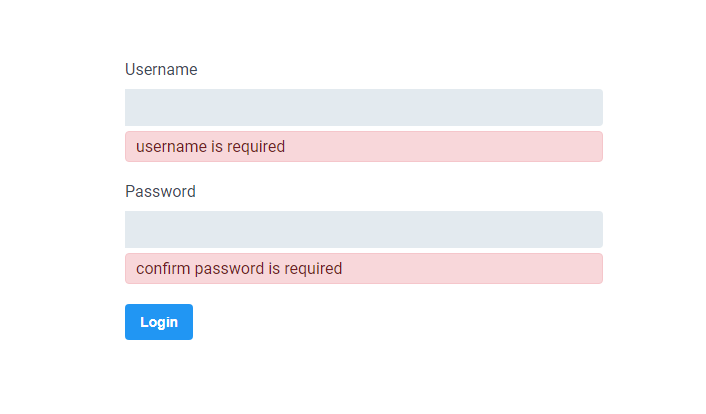
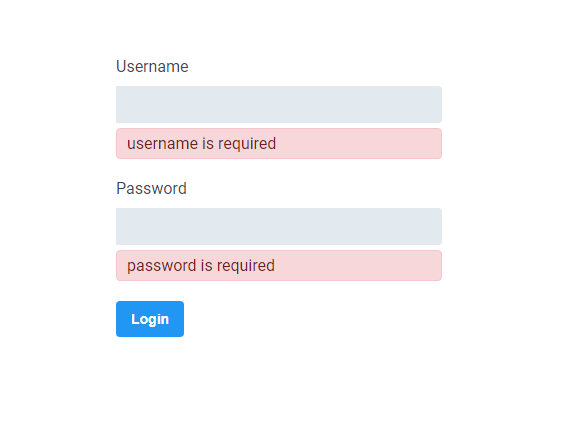
give a callback function default value

Changed region(s): [[0.1496, 0.4348, 0.868, 0.8406], [0.1496, 0.1449, 0.868, 0.4058]]

diff --git a/index.js b/index.js
@@ -1,4 +1,6 @@
 import Validation from "./js/validation.js";
+
+// ES6
 class Loggin extends Validation {
     constructor() {
         super();
@@ -9,17 +11,18 @@ class Loggin extends Validation {
         const rules = {
             ele: {
                 username: document.querySelector("input[name=username]"),
-                "confirm password": document.querySelector("input[name=password]"),
+                password: document.querySelector("input[name=password]"),
             },
             rules: {
                 username: "req|alpha|min(3)",
-                "confirm password": "req|alphaNum|between(8,25)",
+                password: "req|alphaNum|between(8,25)",
             },
             button: document.querySelector(".save"),
         };
 
-        const userAuth = () => {
-            /* Do Stuff */
+        // Callback Function
+        const userAuth = (data) => {
+            // Do Stuff
         };
 
         this.isValid(rules, userAuth);
@@ -37,12 +40,13 @@ class Loggin extends Validation {
             rules: {
                 username: "req|alpha|min(3)",
                 passwrod: "req|alphaNum|between(8,25)",
-                "confirm password": "req|alphaNum|between(8.25)|eq(password)",
+                "confirm password": "req|alphaNum|between(8,25)|eq(password)",
                 email: "req|email",
             },
             button: document.querySelector("#save"),
         };
 
+        // Callback Function
         const userAuth = () => {
             /* Do Stuff */
         };
@@ -51,22 +55,27 @@ class Loggin extends Validation {
     }
 }
 
+// new Instance
 const f = new Loggin();
 f.signIn();
 
-/*
-// Create an Object
-const validatinRules = {
+// Rules Object
+const validationRules = {
     ele: {
-        username: document.querySelector('.name')
+        username: document.querySelector("input[name=username]"),
+        password: document.querySelector("input[name=password]"),
     },
     rules: {
-        username: 'req|alpha|min(3)'
+        username: "req|alpha|min(3)",
+        password: "req|alphaNum|between(8,25)",
     },
-    button: document.querySelector('#registry')
+    button: document.querySelector(".save"),
 };
 
+// Callback Function
+const userAuth = () => {
+    /* Do Stuff*/
+};
 
 const valid = new Validation();
-valid.isValid(validatinRules, () => { /* Do Stuff });
-/*/
+valid.isValid(validationRules, userAuth);

diff --git a/ts/validation.ts b/ts/validation.ts
@@ -75,7 +75,7 @@ export default class Validation {
         return this;
     }
 
-    public isValid(obj, success): any {
+    public isValid(obj, success = null): any {
         // Make Sure to be obj parameter instance of an object
         if (!(obj instanceof Object) && !(typeof obj === "object"))
             throw new Error("Obj Parameter Must be an Object!");
@@ -240,7 +240,7 @@ export default class Validation {
 
             // If All Fields Valid Do Somthing and send
             if (valid.length === inputFields.length) {
-                doSomthing(inputFields);
+                if (doSomthing !== null) return doSomthing(inputFields);
             }
         };
     }

diff --git a/js/validation.js b/js/validation.js
@@ -72,7 +72,7 @@ export default class Validation {
         return this;
     }
 
-    isValid(obj, success) {
+    isValid(obj, success = null) {
         // Make Sure to be obj parameter instance of an object
         if (!(obj instanceof Object) && !(typeof obj === "object"))
             throw new Error("Obj Parameter Must be an Object!");
@@ -236,7 +236,7 @@ export default class Validation {
 
             // If All Fields Valid Do Somthing and send
             if (valid.length === inputFields.length) {
-                doSomthing(inputFields);
+                if (doSomthing !== null) return doSomthing(inputFields);
             }
         };
     }
